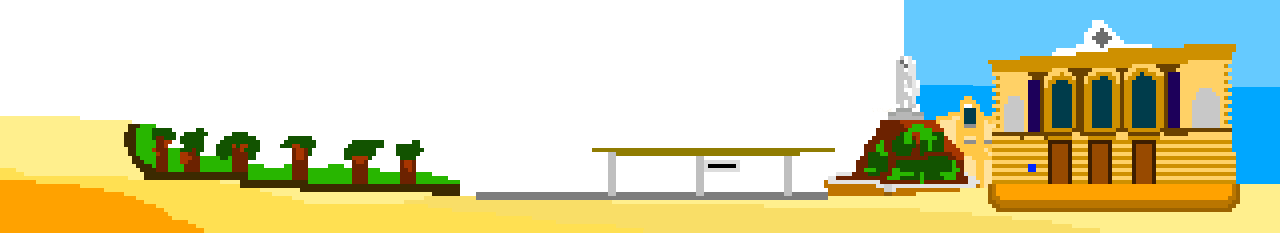
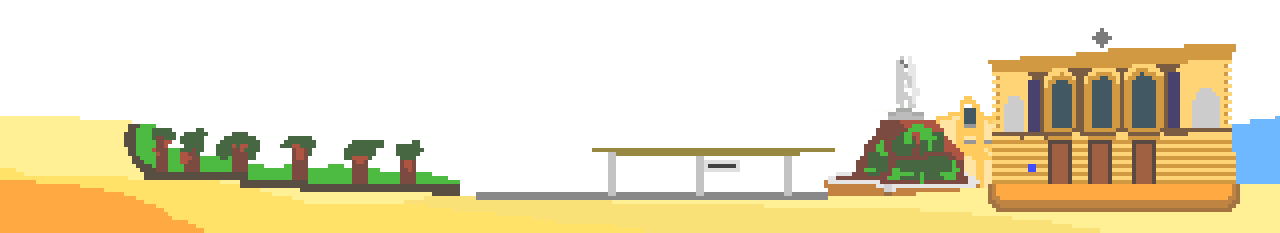
Rework street

Changed region(s): [[0.4375, 0.0, 1.0, 0.9313], [0.0938, 0.5107, 0.375, 0.8412], [0.0, 0.7511, 0.1562, 1.0]]

diff --git a/src/views/StreetView.ts b/src/views/StreetView.ts
@@ -8,6 +8,7 @@ import {Timer, Vector} from "excalibur";
 import {StreetForeground} from "../background/StreetForeground";
 import {StreetFountain} from "../background/StreetFountain";
 import {TramFactory} from "../actors/TramFactory";
+import {StreetOverlay} from "../background/StreetOverlay";
 
 const NPC_SPAWN_INTERVAL_MS = 5000;
 const TRAM_SPAWN_INTERVAL_MS = 20000;
@@ -44,7 +45,7 @@ export class StreetView implements View {
             xMax: VIEW_WIDTH,
             xMin: 0,
             yMax: VIEW_HEIGHT - 70,
-            yMin: 2 * (VIEW_HEIGHT / 3)
+            yMin: 2 * (VIEW_HEIGHT / 3) - 15
         });
 
         this.tramFactory = new TramFactory({
@@ -63,6 +64,7 @@ export class StreetView implements View {
         level.add(new StreetBackground(new Vector(0,0)));
         level.add(new StreetForeground(new Vector(0,0)));
         level.add(new StreetFountain(new Vector(0,0)));
+        level.add(new StreetOverlay(new Vector(0,0)));
         level.add(this.npcTimer);
         level.add(this.tramTimer);
 
@@ -91,10 +93,10 @@ export class StreetView implements View {
 
     private spawnOneNPC(): void {
         const actor = this.miniNPCFactory.create();
-        if (actor.pos.y > LIMITE_TO_BE_FOREGROUND - 55) {
-            actor.z = 6;
+        if (actor.pos.y > LIMITE_TO_BE_FOREGROUND - 65) {
+            actor.z = 7;
         } else {
-            actor.z = 4;
+            actor.z = 5;
         }
         this.level.add(actor);
         actor.on("pointerdown", () => this.callOnNPCClicked(actor));

diff --git a/src/actors/MiniNPC.ts b/src/actors/MiniNPC.ts
@@ -1,5 +1,6 @@
 import {Actor, Color, Engine, vec, Vector, Animation} from "excalibur";
 import {Resources} from "../resources";
+import * as ex from "excalibur";
 
 export class MiniNPC extends Actor {
 
@@ -32,7 +33,8 @@ export class MiniNPC extends Actor {
     private prepareWalkAnimation(direction : boolean,speed : number) {
         const walkStep = 150 - speed;
         const spriteOptions = {
-            flipHorizontal : direction
+            flipHorizontal : direction,
+            tint: ex.Color.fromHex('#ffffff'),
         };
         this.walkAnimation = new Animation({
             frames: [

diff --git a/src/background/StreetOverlay.ts b/src/background/StreetOverlay.ts
@@ -1,0 +1,20 @@
+import {Actor, Color, Engine, vec, Vector} from "excalibur";
+
+export class StreetOverlay extends Actor {
+    constructor( pos : Vector) {
+        super({
+            pos,
+            anchor: vec(0, 0),
+            z: 5,
+            color: Color.fromHex('#ffffff'),
+            height:233,
+            width: 1280
+        });
+    }
+
+    onInitialize(engine: Engine) {
+        super.onInitialize(engine);
+
+        this.graphics.opacity = 0;
+    }
+}

diff --git a/src/background/StreetFountain.ts b/src/background/StreetFountain.ts
@@ -7,7 +7,7 @@ export class StreetFountain extends ex.Actor {
         super({
             pos,
             anchor: ex.vec(0, 0),
-            z: 5
+            z: 6
         });
 
     }
